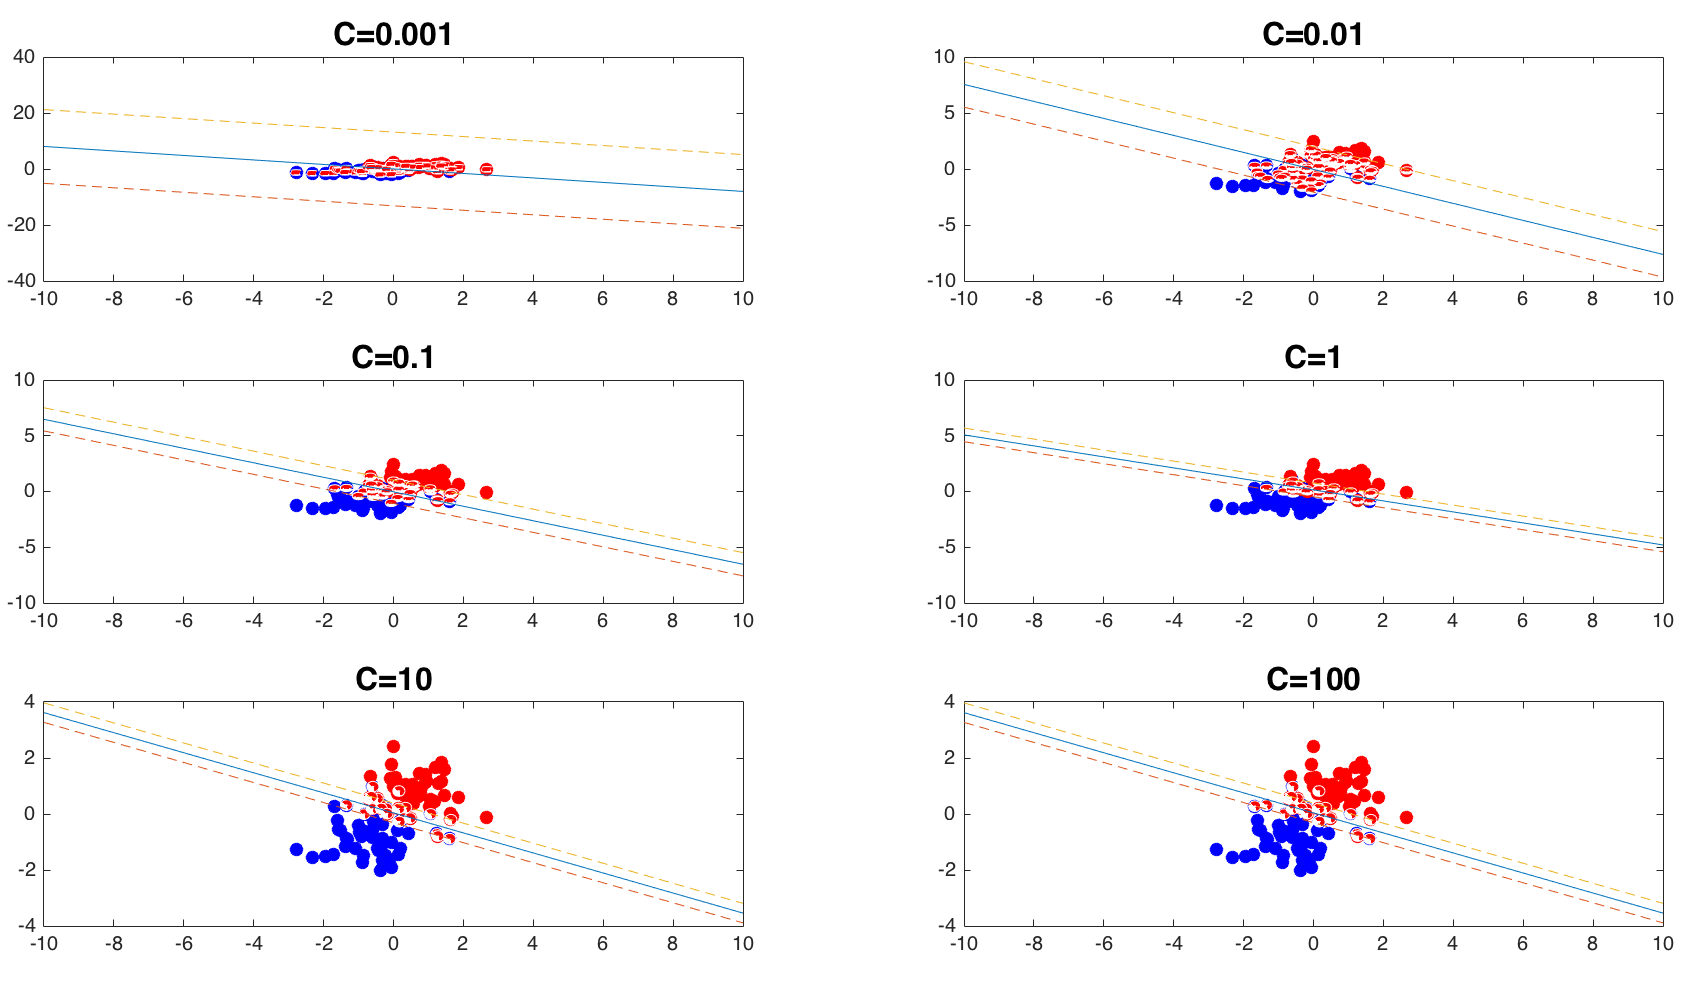
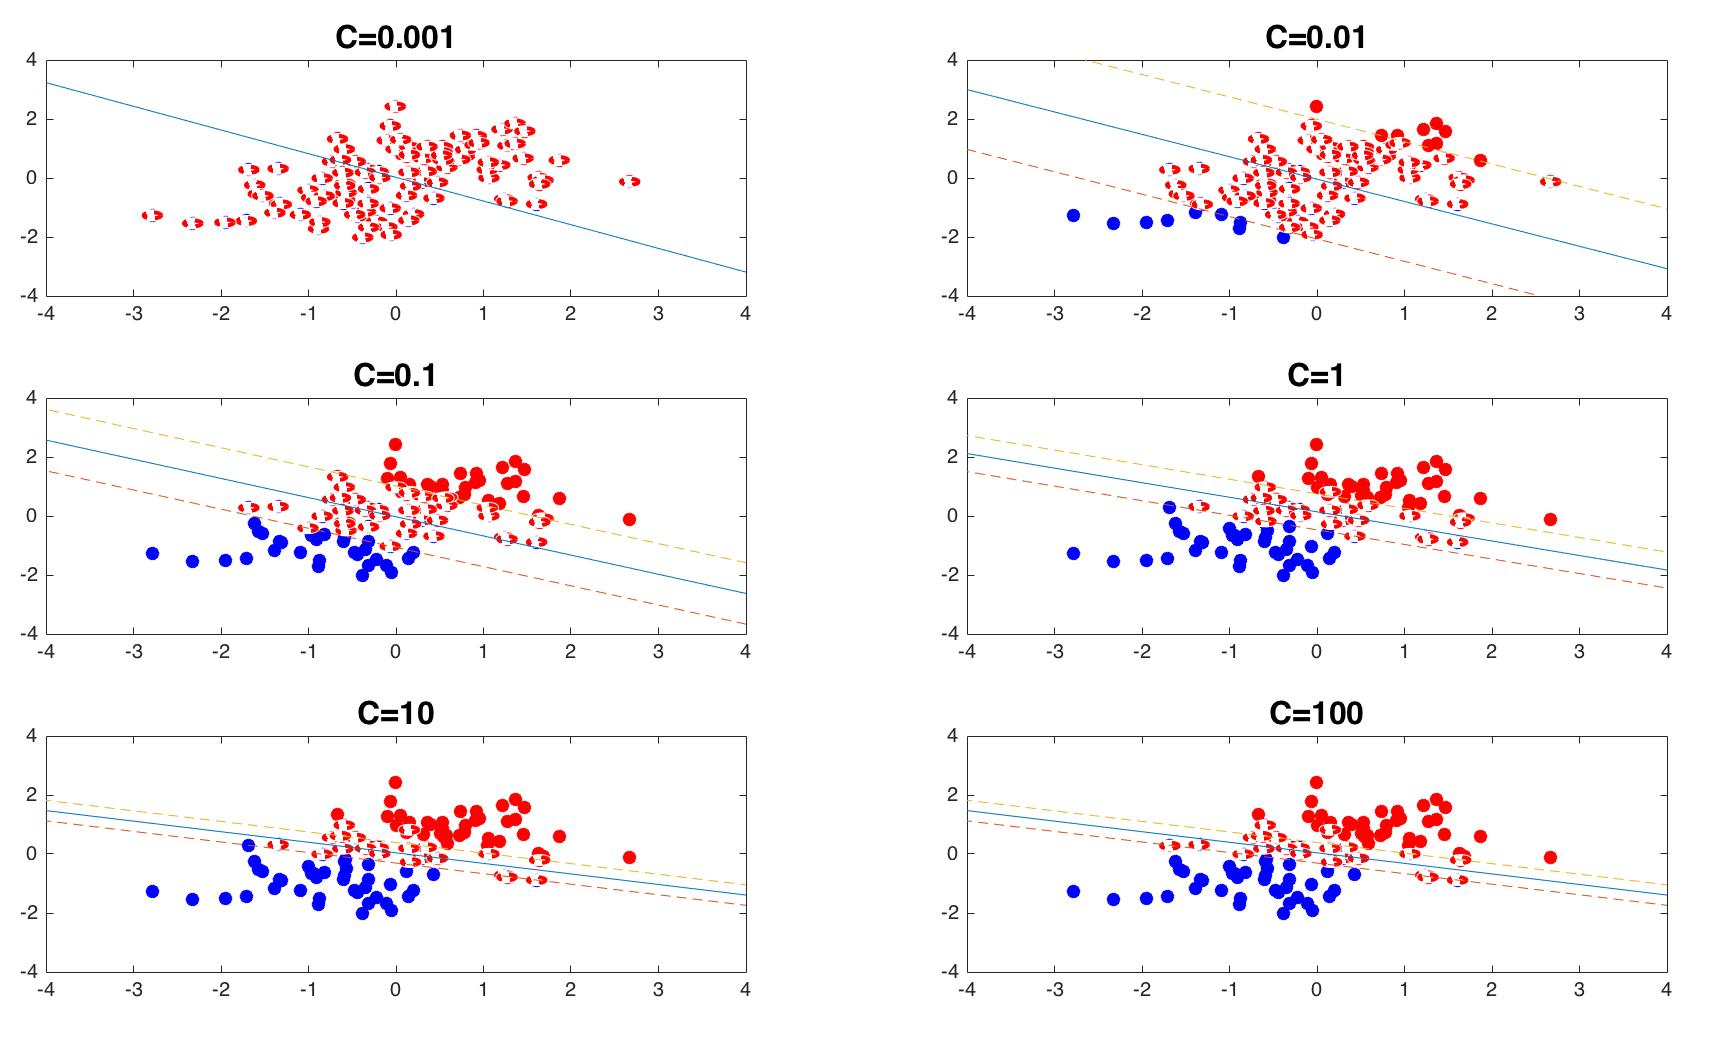
Second draft

diff --git a/latex/complexity.tex b/latex/complexity.tex
@@ -5,27 +5,28 @@ The problem to be minimized is the following:
 \begin{equation}
   0.5 ||w||^2 + C \sum_{i=1}^{N}\xi_i,
 \end{equation}
-where $w$ is the hyper-plane, $\xi_i$ is the penalty for each datapoint and $C$ is the regularization parameter.
+where $w$ is the separation hyper-plane, $\xi_i$ is the penalty for each datapoint and $C$ is the regularization parameter.
 Low values for $C$ means that the model "allows" more data points lying between the margins, making them "softer".
 On the other hand, higher values for $C$ make the margins "harder".
 Some examples of how the margins looks like for different values of $C$ can be seen in Figure \ref{fig:svm}.
-It is possible to observe the margins getting harder and harder (with less data points as between the margins) when $C$ is increased by powers of 10.
+In this example made with toy data it is possible to observe the margins getting harder and harder (with less data points as between the margins) when $C$ is increased by powers of 10.
 
 \begin{figure}[!htb]
 \begin{center}
-\includegraphics [width=10.5cm] {./graphics/SVM_PLOT.png}
-\caption{Binary SVM under diferent values of $C$. The dashed circles in each subfigure are the support vectors.} \label{fig:svm}
+\includegraphics [width=12.5cm] {./graphics/SVM_PLOT.png}
+\caption{Linear SVM under diferent values of $C$. The dashed circles in each subfigure are the support vectors.} \label{fig:svm}
 \end{center}
 \end{figure}
 
 Since the strong duality holds for this QP problem, we can do some sensitive interpretations with the Lagrange variables.
-The number of Lagrange variables greater than $0$ will gives us the number of support vectors.
-The ratio $r$ between the number of support vectors and the number of data to train the SVM can gives us an intuition about the complexity of the model.
+The number of Lagrange variables greater than $0$ ($>0$ not $\geq 0$) will gives us the number of support vectors (for computational issues we are considering the Lagrange variables greater than $0.000001$ as support vectors).
+Let's define $r$ as the ratio between the number of support vectors and the number of data to train the SVM model.
+This value can gives us an intuition about the complexity of the model.
 With $r$ equals to 1, means that the model needs the whole training data to define a decision boundary.
 This makes our model more complex in the sense that the it needs as much active constraints as data.
 
-The task of selection of $C$ is to select the most simple model that gives the highest accuracy.
-Figure \ref{fig:toy} shows a plots of the training and test set accuracies (solid lines) and the value of $r$ (dashed line) for each value of $C$.
+The task of picking a value for $C$ is to select the simplest model that gives the highest accuracy.
+Figure \ref{fig:toy} shows a plot with the accuracies (solid line) and the value of $r$ (dashed line) for each value of $C$ in our toy example.
 
 \begin{figure}[!htb]
 \begin{center}
@@ -36,23 +37,25 @@ Figure \ref{fig:toy} shows a plots of the training and test set accuracies (soli
 
 It is possible to observe that the accuracies are relatively stable along the range of $C$, but the models start to decrease complexity from $C=10^{-2}$.
 A good trade-off between model complexity and accuracy can be reached with $C$ between $10^1$ and $10^3$ which corresponds $\approx 20\%$ of the training set as support vectors. 
-The plots from Figures \ref{fig:svm} and \ref{fig:toy} can be reproduced executing the script called toy\_analysis.m .
+The plots from Figures \ref{fig:svm} and \ref{fig:toy} can be reproduced executing the script called `toy\_analysis.m`.
 
 The same sensitivity analysis can be done with real data.
-Figure \ref{fig:datasets} shows the same Accuracy and $r$ plot for different values of $C$ for three different dataset.
+Figure \ref{fig:datasets} shows the same, accuracy and $r$, plot for different values of $C$ for three different datasets.
+Each dataset is split in two sets.
+One set is used to train the linear SVM model and the second set is used just to report the accuracies.
+The accuracies in the Figure are represented by the blue and red solid lines for the train and test sets respectively.
 
-
-Containing 150 data points slit in 3 classes the Iris Dataset \footnote{https://archive.ics.uci.edu/ml/datasets/iris} is a well known database used in the pattern recognition literature.
+Containing 150 data points split in 3 classes the Iris Dataset\footnote{https://archive.ics.uci.edu/ml/datasets/iris} is a well known database used in the pattern recognition literature.
 In Figure \ref{fig:datasets} (a) it is possible to observe that the good trade-off is obtained with $C=10^2$ with an accuracy above 90\% in the training set and in the test set.
-The plot can be reproduced executing the script iris\_analysis.m.m .
+The plot can be reproduced executing the script `iris\_analysis.m` .
 
-Figure \ref{fig:datasets} (b) presents the same analysis with the Wine Dataset (178 data points split in 3 classes)\footnote{https://archive.ics.uci.edu/ml/datasets/wine}.
+Figure \ref{fig:datasets} (b) presents the same analysis with the Wine Dataset\footnote{https://archive.ics.uci.edu/ml/datasets/wine}(178 data points split in 3 classes).
 The good trade-off can be observed with $C$ greater than $1$ with an accuracy above 90\% for both training and test sets.
-The plot can be reproduced executing the script wine\_analysis.m .
+The plot can be reproduced executing the script `wine\_analysis.m`.
 
 Finally Figure \ref{fig:datasets} (c) presents the analysis with the Column Vertebral Dataset \footnote{https://archive.ics.uci.edu/ml/datasets/Vertebral+Column} (310 data points split in three classes).
-The trade-off can be observed with $C$ equals to $10$ with an accuracy above 80\% for both training and test sets.
-The plot can be reproduced executing the script vertebral\_column\_analysis.m .
+The good trade-off can be observed with $C$ equals to $10$ with an accuracy above 80\% for both training and test sets.
+The plot can be reproduced executing the script `vertebral\_column\_analysis.m` .
 
 \begin{figure}[!htb]
 \begin{center}
@@ -63,6 +66,3 @@ The plot can be reproduced executing the script vertebral\_column\_analysis.m .
 \caption{Accuracy and Support Vector Ratio $r$ vs $C$ for the Iris (a), Wine (b) and Column Vertebral Dataset (c)} \label{fig:datasets}
 \end{center}
 \end{figure}
-
-
-

diff --git a/toy_analysis.m b/toy_analysis.m
@@ -59,6 +59,8 @@ for i=1:n_C_plot
             viscircles([data_train(j,1),data_train(j,2)],0.1, 'LineStyle','--')
         end
     end
+    xlim([-4 4]);
+    ylim([-4 4]);
 
     %Plotting decision boundary
     % Threshold 0 and support vectors +1 and -1
@@ -95,14 +97,15 @@ xlabel('C') % x-axis label
 ylabel('Accuracy') % y-axis label
 
 semilogx(C,accuracy_train,'MarkerFaceColor', 'b','LineWidth',2);
-semilogx(C,accuracy_test,'MarkerFaceColor', 'g','LineWidth',2);
+%semilogx(C,accuracy_test,'MarkerFaceColor', 'g','LineWidth',2);
 semilogx(C, support_vectors_ratio, 'LineStyle','--','LineWidth',2);
 
 semilogx(C,accuracy_train,'o','LineWidth',2);
-semilogx(C,accuracy_test,'o','LineWidth',2);
+%semilogx(C,accuracy_test,'o','LineWidth',2);
 semilogx(C, support_vectors_ratio,'o','LineWidth',2);
 
-legend('Accuracy Train set', 'Accuracy Test set', 'Support Vectors ratio');
+%legend('Accuracy Train set', 'Accuracy Test set', 'Support Vectors ratio');
+legend('Accuracy Train set', 'Support Vectors ratio');
 grid on;
 set(gca,'xscale','log');
 hold off;

diff --git a/latex/conclusion.tex b/latex/conclusion.tex
@@ -1,5 +1,13 @@
 \label{sec:conclusion}
 
-Conclusions.
+In this work we have shown how support vector machines with soft margins works.
+We also discussed how to select the regularization parameter $C$ by looking at the ratio between the number of support vectors and the number of data points used to train the model.
+It is worth noting that in this work we explored only linear support vector machines.
+The accuracies, specially for the Vertebral Columns Database, can be improved by using the kernel trick \cite{bishop2006pattern}.
+This will result in a non-linear decision boundary which, for some problems, is more suitable than assume a linear separability.
+
+
+
+
 
 

diff --git a/latex/cover.tex b/latex/cover.tex
@@ -27,7 +27,7 @@
 
 %\vspace{0.5cm}
 
-{\parindent0em{\large{\bf{Thesis director:}}  Prof. Herv\'e Lebret\\}}
+{\parindent0em{Prof. Herv\'e Lebret\\}}
 
 %\vspace{1.9cm}
 

diff --git a/latex/report.tex b/latex/report.tex
@@ -59,11 +59,6 @@
 \input complexity
 
 
-\section{Experiments}
-
-\input experiments
-
-
 \section{Conclusion}
 
 \input conclusion
